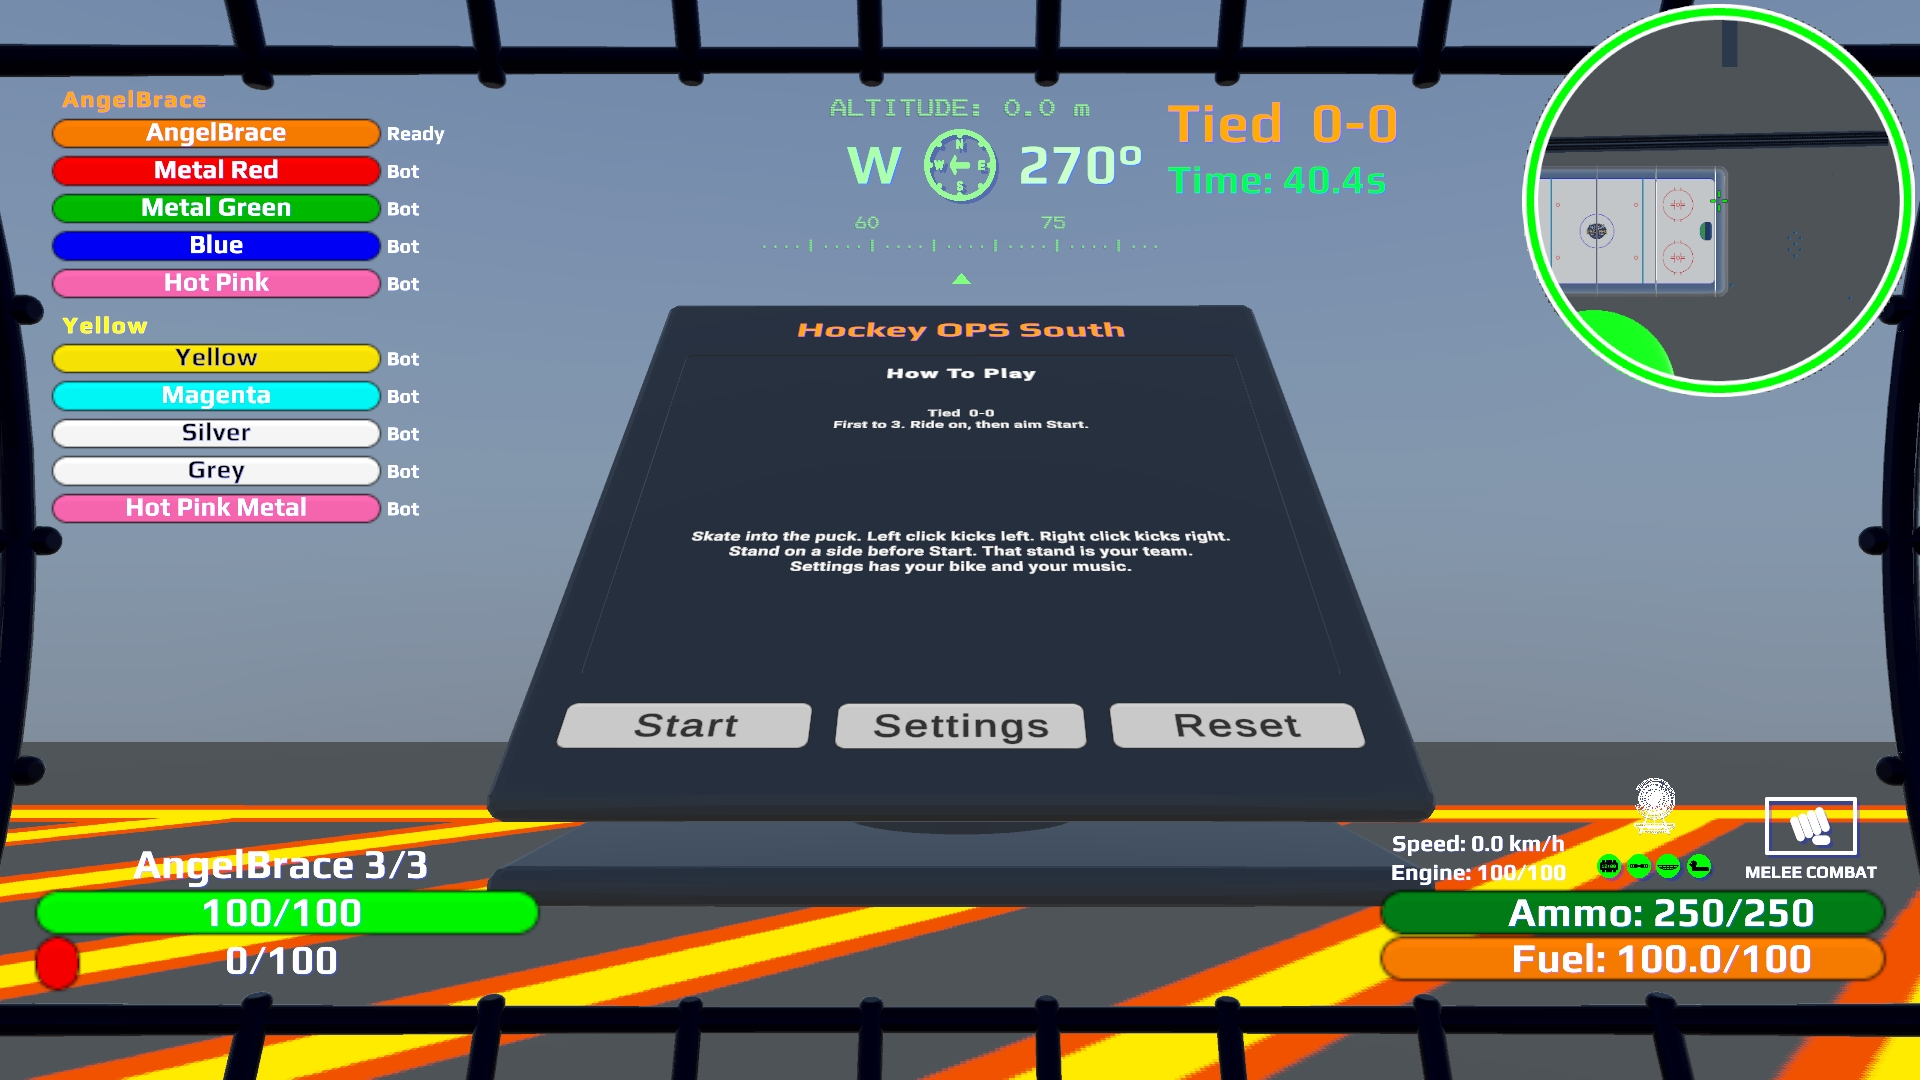
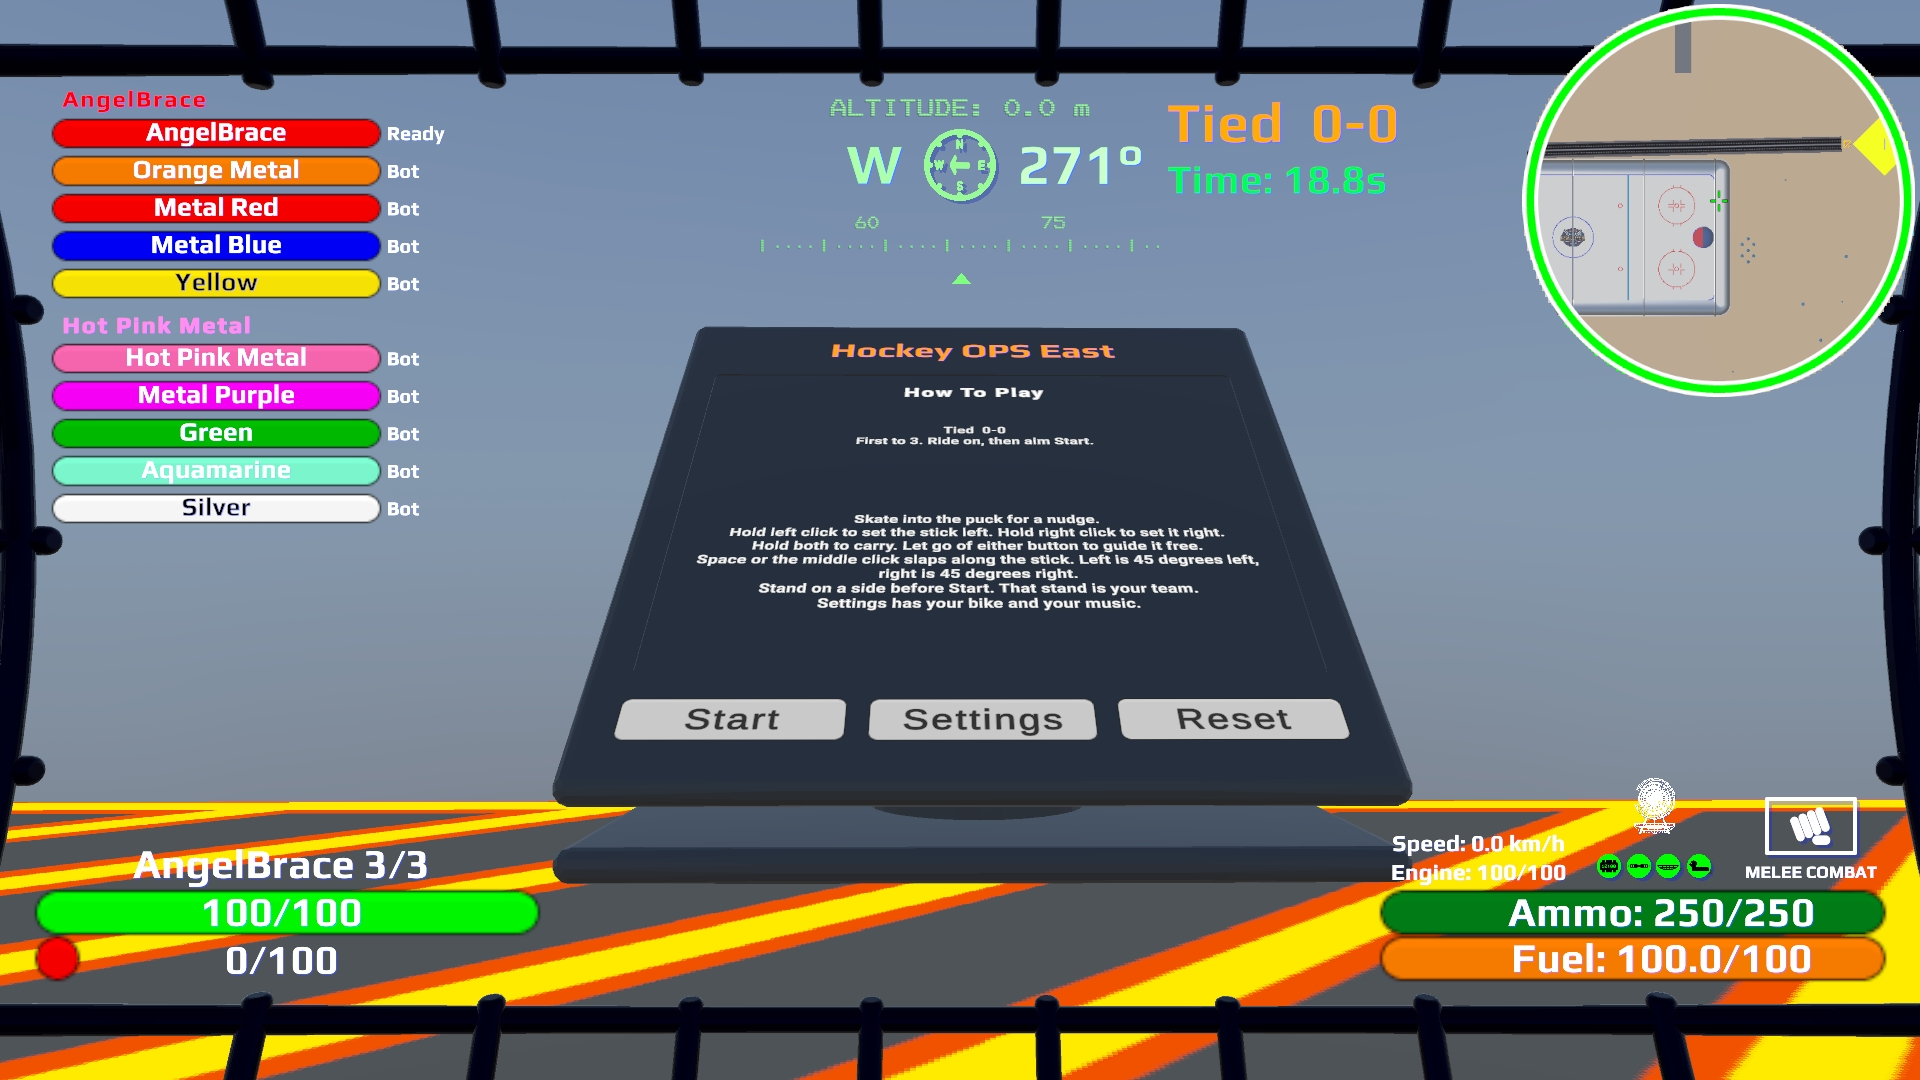
Name the hockey boards East and West.
The east board is the match terminal and the west board is each rider's bike and music. The two screenshots now show Hockey OPS East.

diff --git a/index.html b/index.html
@@ -1568,7 +1568,7 @@ AngelBraceToo Sunk: ST-9, ST-11, 8</pre>
       </figure>
       <p>
         <kbd>E</kbd> inside any collider on the arena opens that terminal, including while a game is going.
-        The south board reads <strong>Hockey OPS South</strong>. The north board reads <strong>Hockey OPS North</strong>.
+        The east board reads <strong>Hockey OPS East</strong>. The west board reads <strong>Hockey OPS West</strong>.
         The cursor comes out. <kbd>E</kbd> again closes the panel. During a live game the bike keeps moving.
         <kbd>E</kbd> does not get you off the bike while you are in those colliders.
         The team stands still count, even though they sit on the ground outside the raised arena.
@@ -1587,8 +1587,8 @@ AngelBraceToo Sunk: ST-9, ST-11, 8</pre>
         </table>
       </div>
       <figure>
-        <img src="images/51-hockey-ops.jpg" alt="Hockey Arena OPS with Start, Settings, Reset, and Fill open seats" loading="lazy" onerror="this.classList.add('missing')">
-        <figcaption>Hockey Arena OPS</figcaption>
+        <img src="images/51-hockey-ops.jpg" alt="Hockey OPS East with Start, Settings, and Reset under the how-to-play page. The score reads Tied 0-0." loading="lazy" onerror="this.classList.add('missing')">
+        <figcaption>Hockey OPS East. Start, Settings, and Reset sit under the rules.</figcaption>
       </figure>
       <p>
         First team to <strong>3</strong> wins. That number is <strong>Goals To Win</strong> on the arena.
@@ -1658,8 +1658,8 @@ AngelBraceToo Sunk: ST-9, ST-11, 8</pre>
         A multiplayer room can use that saved lineup. Changes you make in a room are not written back over it.
       </p>
       <figure>
-        <img src="images/52-hockey-roster.jpg" alt="Hockey OPS South with five riders a side. The HUD roster matches the panel. Yellow’s menu is open on Color and Deactivate. The score reads Tied 0-0." loading="lazy" onerror="this.classList.add('missing')">
-        <figcaption>Hockey OPS South. The HUD roster on the left matches the panel. The colored headers are the captains. Right-click a bot for Color or Deactivate.</figcaption>
+        <img src="images/52-hockey-roster.jpg" alt="Hockey OPS East with five riders a side. The HUD roster matches the panel. Yellow’s menu is open on Color and Deactivate. The score reads Tied 0-0." loading="lazy" onerror="this.classList.add('missing')">
+        <figcaption>Hockey OPS East. The HUD roster on the left matches the panel. The colored headers are the captains. Right-click a bot for Color or Deactivate.</figcaption>
       </figure>
     </section>
 
@@ -1737,7 +1737,7 @@ AngelBraceToo Sunk: ST-9, ST-11, 8</pre>
         <li><strong>Tetris</strong> — Engage → host on South <strong>5s</strong> → Playing. Offline includes Marathon, Sprint, and Ultra. In a room the host wheel is 2-player only. Clamp on a PlayZone block (blue South / red North): stay still <strong>3s</strong> (or immediately if already there). While clamped the cage cannot walk — WASD moves the piece. Jump off to break clamp. Stick/D-Pad or <kbd>A</kbd>/<kbd>D</kbd> move, <kbd>Q</kbd>/<kbd>LB</kbd> · <kbd>E</kbd>/<kbd>RB</kbd> rotate, <kbd>W</kbd>/stick↑ flip, <kbd>C</kbd>/<kbd>Y</kbd> Hold, soft or <kbd>RT</kbd> hard; leftover board stays until Start/Reset. <strong>Spawn:</strong> host South, guest North.</li>
         <li><strong>Ray Racer</strong> — the deck is weapons-free. The host and the first three others ride; anyone else spectates (<strong>Previous</strong> / <strong>Escaper</strong> / <strong>Next</strong>). A green <strong>READY</strong> button (or <kbd>Enter</kbd> / gamepad <kbd>A</kbd>) starts the countdown; a room waits until every rider has pressed Ready. <kbd>E</kbd> hides Ready and opens <strong>RayRacerOPS</strong>. Then <strong>GRID</strong>, <strong>3</strong>, <strong>2</strong>, <strong>1</strong>, <strong>GO</strong>. Hold gas from <strong>2</strong> through <strong>GO</strong> for a rocket start; gas on the red <strong>3</strong> is a burnout. Boost lights the rear wheel. Opens in third person; <kbd>V</kbd> cycles Normal, Full Screen, Third Person. Leaving for another mode restores that camera. On the deck, <kbd>1</kbd>–<kbd>5</kbd> are cameras (chase, left, right, front, top) and weapons do not switch. Host mode wheel: <strong>Free Ray</strong> or <strong>Classic Tron</strong> (90-degree turns on even 2-unit lines). Host <strong>Theme</strong> recolors the floor, grid, border, and pillars. Host sky, grid-line, and floor-fade sliders. Your music and bike color. Solo, with the cursor free, right-click a Game Roster bar for that bike’s color. The computer bike is grey with a white ray. A wall, pillar, or beam crashes you. The other rider’s beam crashes you too, including the piece still being drawn. Your own ribbon does not, until it is a finished wall. <strong>Continue</strong> uses a remaining life with no new countdown. <strong>Start</strong> / <strong>Reset</strong> / <strong>Restart</strong> begin a fresh round at Ready. <code>/tron</code> is 1 life, <code>/raylives</code> is 3. Off the island, <kbd>E</kbd> mounts or dismounts a Ray Racer bike you have found, and does nothing if you have not found one.</li>
         <li><strong>Room chat</strong> — in a Photon room, <kbd>G</kbd> opens the panel. A plain line goes to everyone. <code>@Nick</code> is a private whisper. During hockey, <code>@ATeam</code>, <code>@BTeam</code>, and <code>@team</code> are side chat. <code>/me</code>, <code>/who</code>, <code>:puck:</code>, <code>:wave:</code>, <code>:star:</code>. Host <code>/ban @Nick</code> and <code>/unban @Nick</code>. <code>/ignore</code> is only your chat. The same commands work in the <kbd>F9</kbd> console. An incoming line flashes that rider’s Game Roster bar.</li>
-        <li><strong>Hockey Arena</strong> — ten spots, five a side. Host at <strong>HockeyOPS1</strong>, first remote at <strong>HockeyOPS2</strong>, then <strong>HockeyPlayer1</strong>–<strong>HockeyPlayer8</strong>. Anyone else spectates with their own camera. The host is Team A captain. One other rider starts as Team B captain on the sixth roster bar. If several other riders are in, one of them is chosen for that bar, and whoever the host leaves on the sixth bar is the captain. A remote can change their own bike color, music, and music volume. Start, Reset, Fill, and the roster stay with the host. Only the host can pause. The fifth rider on a side stands behind the middle of that side’s four. With the cursor free, the host can drag a name to the other side: drop on a name to swap, drop on <strong>Open</strong> to move. The headers show those captains’ nicknames in their ray colors. <kbd>E</kbd> inside any arena collider opens <strong>Hockey OPS South</strong> or <strong>Hockey OPS North</strong> (Start, Settings, Reset, Fill open seats) and frees the cursor, including during a game. Aimed buttons turn orange. Settings holds music and the bike list; aim the list and roll the wheel to scroll. <kbd>ESC</kbd> closes the bike list, then Settings. The puck drops onto center ice at face-off. The colored sphere in front of the bike is the stick. With no button, skating into the puck is one small nudge. Hold <kbd>LMB</kbd> (<kbd>RB</kbd>) to aim left, <kbd>RMB</kbd> (<kbd>LB</kbd>) to aim right. Hold both to carry the puck in front of the bike, and let go of either button to send it off at your speed. A carry lasts 3 seconds, then that rider waits 3 seconds before another carry. For 3 seconds after GO, and for 3 seconds after the puck respawns, both buttons do not carry. A nudge or a slap still does. <kbd>Space</kbd>, the middle click, or <kbd>A</kbd> is one slap along that aim. Front is straight, left is 45 degrees left, and right is 45 degrees right. A slap that touches the puck flashes the stick white and plays the hit. You can ride up the curved sides. The sky board reads <strong>Tied&nbsp;&nbsp;0-0</strong>, <strong>A leads&nbsp;&nbsp;1-0</strong>, or <strong>A wins&nbsp;&nbsp;3-0</strong>. A goal toast reads <strong>Red scores for A Team</strong>. On the winning goal the large header reads <strong>A Team Wins!</strong> for <strong>10</strong> seconds, and the small message lists who scored for which team, also for <strong>10</strong> seconds. <strong>New Game</strong> starts the next face-off for the host. Fifteen fireworks launch from the sky board over about ten seconds, and a win sound plays. Wheels and the net you defend use the captain’s ray color; the body color stays personal. A bot’s color name floats above its bike. Player bikes are not tagged. Right-click an <strong>Open</strong> bar to <strong>Activate</strong> one bot (next color), or a bot for <strong>Color</strong> / <strong>Deactivate</strong>. <strong>Fill</strong> randomizes unused bike colors. Even game: host plus nine bots. Solo bots are remembered next launch. First to 3. Humans can ride out through the nets; bots stay on the ice.</li>
+        <li><strong>Hockey Arena</strong> — ten spots, five a side. Host at <strong>HockeyOPS1</strong>, first remote at <strong>HockeyOPS2</strong>, then <strong>HockeyPlayer1</strong>–<strong>HockeyPlayer8</strong>. Anyone else spectates with their own camera. The host is Team A captain. One other rider starts as Team B captain on the sixth roster bar. If several other riders are in, one of them is chosen for that bar, and whoever the host leaves on the sixth bar is the captain. A remote can change their own bike color, music, and music volume. Start, Reset, Fill, and the roster stay with the host. Only the host can pause. The fifth rider on a side stands behind the middle of that side’s four. With the cursor free, the host can drag a name to the other side: drop on a name to swap, drop on <strong>Open</strong> to move. The headers show those captains’ nicknames in their ray colors. <kbd>E</kbd> inside any arena collider opens <strong>Hockey OPS East</strong> or <strong>Hockey OPS West</strong> (Start, Settings, Reset, Fill open seats) and frees the cursor, including during a game. Aimed buttons turn orange. Settings holds music and the bike list; aim the list and roll the wheel to scroll. <kbd>ESC</kbd> closes the bike list, then Settings. The puck drops onto center ice at face-off. The colored sphere in front of the bike is the stick. With no button, skating into the puck is one small nudge. Hold <kbd>LMB</kbd> (<kbd>RB</kbd>) to aim left, <kbd>RMB</kbd> (<kbd>LB</kbd>) to aim right. Hold both to carry the puck in front of the bike, and let go of either button to send it off at your speed. A carry lasts 3 seconds, then that rider waits 3 seconds before another carry. For 3 seconds after GO, and for 3 seconds after the puck respawns, both buttons do not carry. A nudge or a slap still does. <kbd>Space</kbd>, the middle click, or <kbd>A</kbd> is one slap along that aim. Front is straight, left is 45 degrees left, and right is 45 degrees right. A slap that touches the puck flashes the stick white and plays the hit. You can ride up the curved sides. The sky board reads <strong>Tied&nbsp;&nbsp;0-0</strong>, <strong>A leads&nbsp;&nbsp;1-0</strong>, or <strong>A wins&nbsp;&nbsp;3-0</strong>. A goal toast reads <strong>Red scores for A Team</strong>. On the winning goal the large header reads <strong>A Team Wins!</strong> for <strong>10</strong> seconds, and the small message lists who scored for which team, also for <strong>10</strong> seconds. <strong>New Game</strong> starts the next face-off for the host. Fifteen fireworks launch from the sky board over about ten seconds, and a win sound plays. Wheels and the net you defend use the captain’s ray color; the body color stays personal. A bot’s color name floats above its bike. Player bikes are not tagged. Right-click an <strong>Open</strong> bar to <strong>Activate</strong> one bot (next color), or a bot for <strong>Color</strong> / <strong>Deactivate</strong>. <strong>Fill</strong> randomizes unused bike colors. Even game: host plus nine bots. Solo bots are remembered next launch. First to 3. Humans can ride out through the nets; bots stay on the ice.</li>
         <li><strong>ESC</strong> — pause / Game Selection (HUD off); during death or victory, second <kbd>ESC</kbd> returns to the orbit with <strong>Continue</strong> / <strong>Restart</strong>. On the Ray Racer deck, <kbd>ESC</kbd> closes <strong>RayRacerOPS</strong> before it opens Game Selection. Choosing another mode stops the game you were in. Leaving Ray Racer restores the camera you chose with <kbd>V</kbd>.</li>
         <li><strong>Lives</strong> — 3 lives; <strong>Continue</strong> respawns; <strong>Restart</strong> after the last life or a victory. <strong>GAME OVER</strong> means the run is finished.</li>
         <li><strong>Ocean landing</strong> — falling into Ocean-tagged water has no fall impact; land and buildings still deal fall damage.</li>
